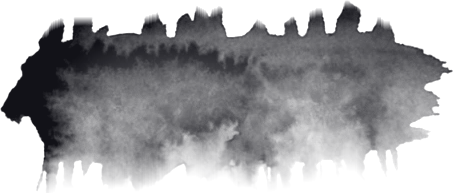
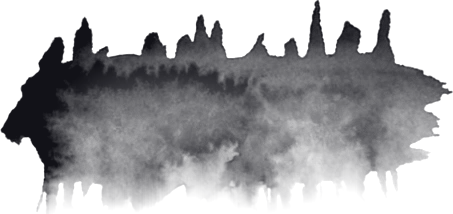
Revert "No finger posts: sheet Z's stout tree tops cut off, code crest grains shrunk beside sheet Y's tree lines"
This reverts commit df17d257ca3237ce317b7e8c1f18072564c1e692.

diff --git a/web/room/paint.js b/web/room/paint.js
@@ -442,7 +442,7 @@
       // many small dabs crowding each other, each one press of the brush tip: upright grains, round dots, a small moss cluster.
       for (let x = bx0 + 0.02 * H; x < bx1 - 0.02 * H; x += H * (0.0016 + 0.0034 * Rv())) { const k = col(x), hi = 0.3 + 0.7 * sm((yBase - top[k]) / span / 0.6), stand = sm((N(x / (0.05 * H) + 500, 2) - 0.4) / 0.14);
         if (depth[k] < 0.05 * H || Rv() > amt * hi * (0.04 + 0.96 * stand)) continue;
-        const r = Rv(), sz = H * (0.0035 + 0.006 * Rv() * Rv()) * (0.75 + 0.5 * stand) * (S.tex !== 'code' && (STROKES.muse_yl || []).length ? 0.45 : 1) /* beside sheet Y's tree lines the upright code grains stood on the ridge as a row of fingers (Yang 11-19): now only a fine bristle */, y = top[k] + 0.002 * H - sz * 1.2 * Rv() * stand; g.globalAlpha = 0.55 + 0.4 * Rv();
+        const r = Rv(), sz = H * (0.0035 + 0.006 * Rv() * Rv()) * (0.75 + 0.5 * stand), y = top[k] + 0.002 * H - sz * 1.2 * Rv() * stand; g.globalAlpha = 0.55 + 0.4 * Rv();
         if (r < 0.55) { g.beginPath(); g.ellipse(x, y - sz * 0.5, sz * (0.22 + 0.2 * Rv()), sz * (0.6 + 0.5 * Rv()), (Rv() - 0.5) * 0.7, 0, 6.2832); g.fill(); }
         else if (r < 0.85 || !kM.length || (S.tex !== 'code' && (STROKES.muse_yl || []).length)) {   /* with sheet Y's tree lines on the crest the large moss clusters read as bubbles beside them */ g.beginPath(); g.ellipse(x, y - sz * 0.3, sz * (0.3 + 0.25 * Rv()), sz * (0.28 + 0.2 * Rv()), Rv() * 3, 0, 6.2832); g.fill(); }
         else { const q = kM[Math.floor(Rv() * kM.length) % kM.length], w = sz * (2.2 + 1.5 * Rv()), h = w * q.h / q.w; g.drawImage(q.im, x - w / 2, y - h * 0.8, w, h); } }

diff --git a/tools/build_inklines.py b/tools/build_inklines.py
@@ -191,7 +191,6 @@ def rowsheet(key, ink, sufs, thr=0.1, gap=9, blob=None, top=0, skirt=None):
             if skirt and skirt[j]:   # sheet Z: under a wood the wet ink ran down in long drips. Kept: from its upper edge (tree tops smoothed over) down by that share of its height, then faded out
                 q = q[rows[0]:rows[-1] + 1]; hq = q.shape[0]; t0 = np.where((q > thr).any(axis=0), (q > thr).argmax(axis=0), hq).astype(np.float32)
                 t0 = ndi.median_filter(t0, size=int(81 * u) | 1, mode='nearest'); q = q * np.clip((t0[None, :] + (skirt[j] + 0.12) * hq - np.arange(hq)[:, None]) / (0.12 * hq), 0, 1)
-                q = q * np.clip((np.arange(hq)[:, None] - t0[None, :] + 0.035 * hq) / (0.03 * hq), 0, 1)   # and the sheet's tree tops: stout posts, in the painting a row of fingers on a ridge and tombstones in the wood (Yang 11-19). Cut off at the wood's upper edge; tree tops come from sheet Y
                 rows = np.nonzero(q.max(axis=1) > thr)[0]
             cols = np.nonzero(q.max(axis=0) > thr)[0]
             save(key + suf, k, q[rows[0]:rows[-1] + 1, cols[0]:cols[-1] + 1]); k += 1
